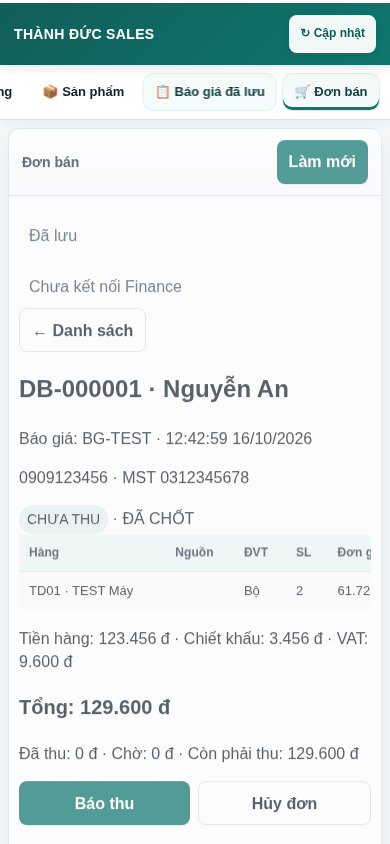
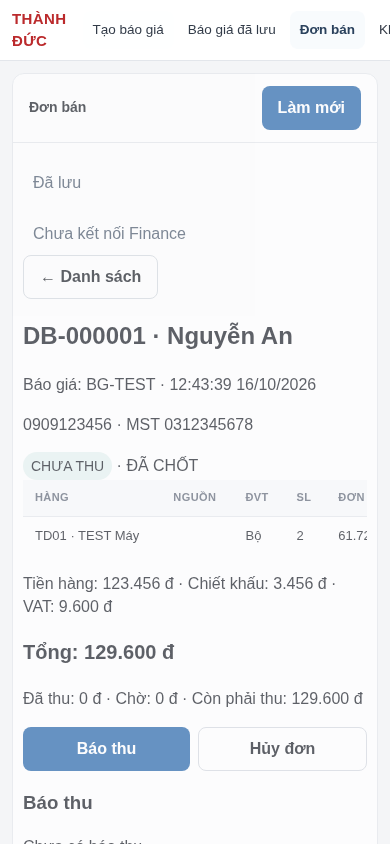
Prepare Sales deploy on latest main; fix zero-value rejections and keep KTD blank

diff --git a/docs/sales-don-ban/README.md b/docs/sales-don-ban/README.md
@@ -1,6 +1,6 @@
 # Đơn bán — Chốt đơn và Báo thu
 
-Mã nguồn dựa trên Sales ở nhánh `erp/sprint1-architecture-20261012`, base `446d825`.
+Mã nguồn dựa trên Sales ở nhánh `erp/sprint1-architecture-20261012`, bản triển khai ghép lên main `ba9dd8f` (giữ giao diện mới và bản sửa in kho).
 Chưa push main hoặc deploy Sales/Finance/Kho. Mọi dữ liệu trong ảnh/test là TEST_.
 
 ## Các file bàn giao
@@ -60,3 +60,10 @@ Browser dùng Playwright + Chromium có sẵn trong môi trường; có thể đ
 Kết quả: **37/37 đạt** (28 ca domain, 2 regression, 7 browser). Test định dạng 1.250.000 → sửa giữa thành 1.350.000 giữ caret; dán 50,000đ; số nguyên gửi lên RPC; nguồn KHO; chọn người/phương thức; lọc không dấu/SĐT; hủy mềm; trạng thái/MA_PHIEU/lý do Finance; mất phản hồi sau khi server ghi rồi retry không trùng; fault injection giữa các ghi tạo/hủy; header/text; mọi ghi ở Sales trong lock; không ghi Finance.
 
 Regression so sánh nguyên văn các hàm tính giá/PDF/hợp đồng với base 446d825 và parse mọi inline script sau include. Ảnh 390×844 nằm trong `screenshots/`: list-390.png, detail-390.png, payment-390.png. Chưa chạy thử trên Google thật hoặc thiết bị điện thoại thật; chưa deploy.
+
+## Sửa theo tài liệu bước 1 trước triển khai
+
+- `TU_CHOI` được có SO_TIEN=0; chỉ yêu cầu số tiền Finance khớp số báo khi DA_XAC_NHAN. Khoản từ chối trả lại khả năng báo thu, không tính vào đã thu hoặc đang chờ.
+- MaKhachChung luôn để trống ở bước 1, kể cả hồ sơ khách đã có mã; chưa nối Danh bạ.
+- 37/37 test chạy lại trên main ba9dd8f, có ca Finance từ chối 0đ và giữ nguyên hàm PDF/hợp đồng/pricing của bản mới.
+- Bộ deploy chỉ nạp appsscript.json, code.js, Index.html, DonBan.js, DonBan.html; không đẩy các app ERP/Điều phối/Danh bạ còn trên máy.
